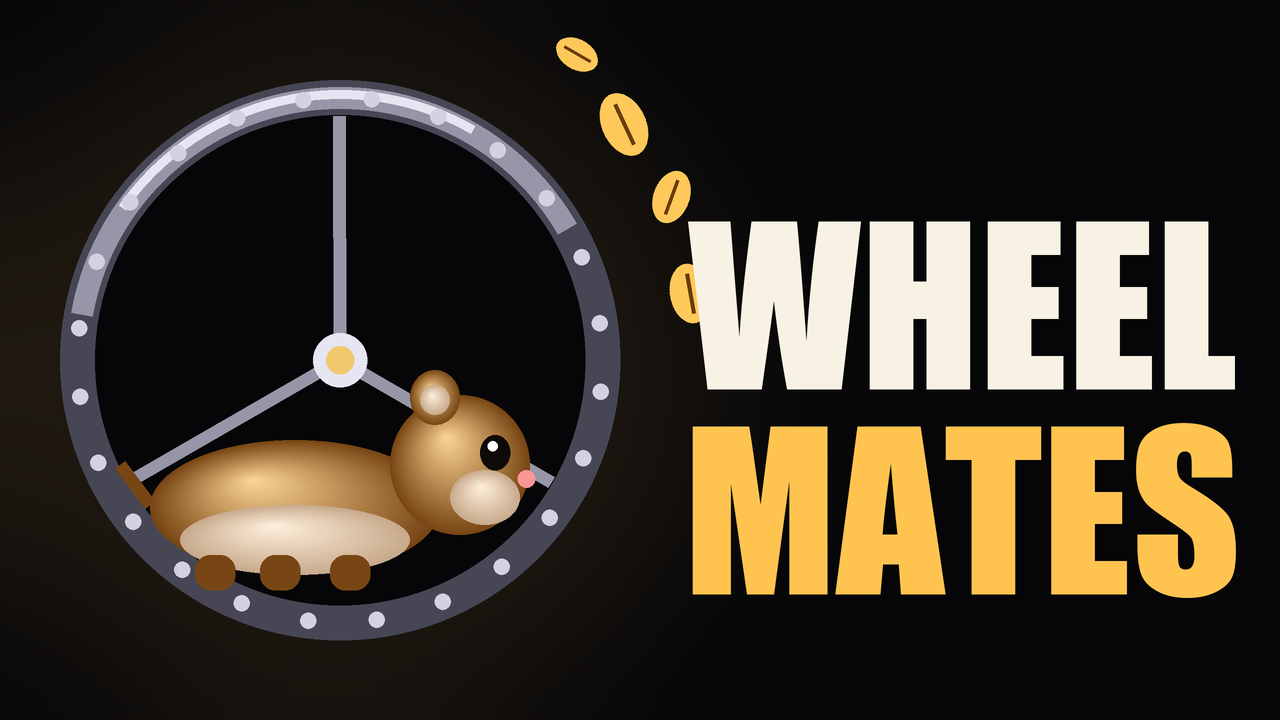
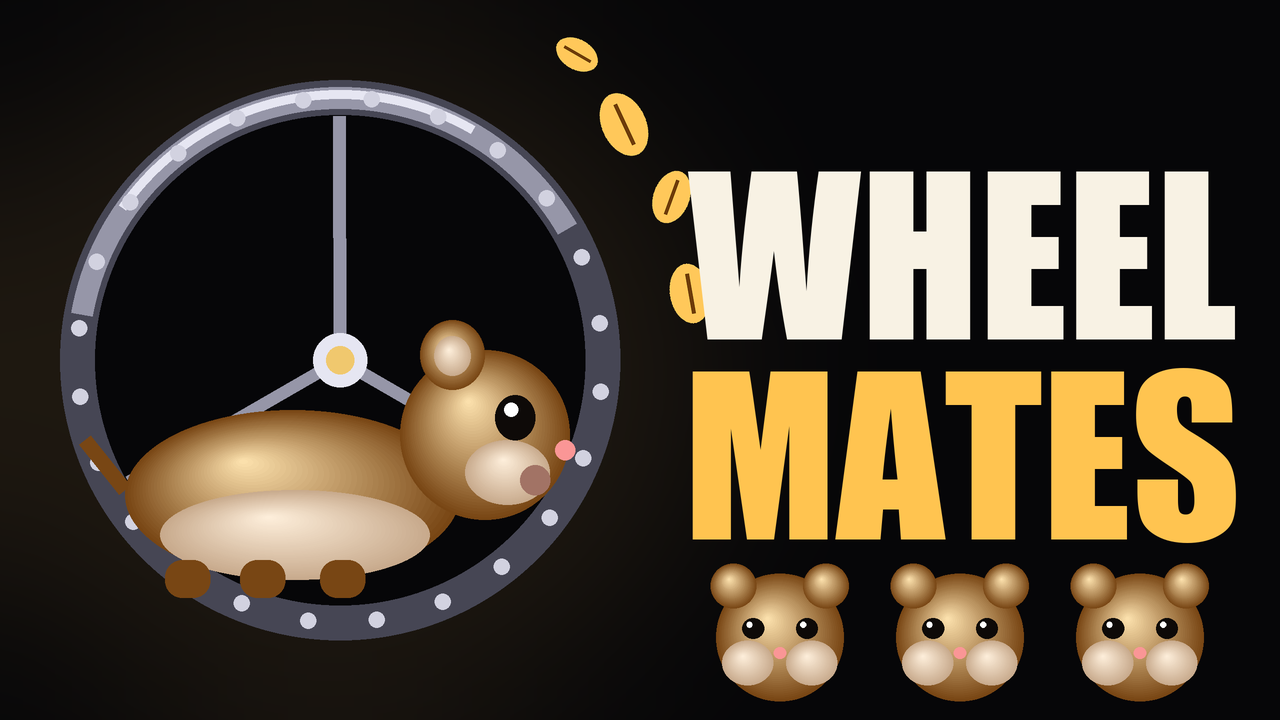
docs: headline image: a bigger runner in the drum and three mates under the wordmark

Changed region(s): [[0.5312, 0.2139, 0.9688, 0.9778], [0.0625, 0.4278, 0.4688, 0.8556]]

diff --git a/tools/card.py b/tools/card.py
@@ -63,19 +63,21 @@ for k in range(3):
 ld.ellipse([CX - 54, CY - 54, CX + 54, CY + 54], fill=RIM_LT)
 ld.ellipse([CX - 28, CY - 28, CX + 28, CY + 28], fill=HUB)
 
-# Squeektoshi running at the bottom of the drum, facing right: tail, body, belly, head, ear, eye, nose, legs
-ld.line([300, 1010, 240, 930], fill=FUR_DK, width=26)
-shaded((300, 880, 880, 1150), FUR_LT, FUR_DK, 0.35, 0.3)       # body
-shaded((360, 1010, 820, 1150), BELLY, BELLY_DK, 0.4, 0.3)      # belly
-shaded((780, 790, 1060, 1070), FUR_LT, FUR_DK, 0.4, 0.3)       # head
-shaded((820, 740, 920, 850), FUR_LT, FUR_DK)                   # ear
-shaded((840, 770, 900, 830), BELLY, BELLY_DK)                  # inner ear
-ld.ellipse([960, 870, 1020, 940], fill=INK)                    # eye
-ld.ellipse([975, 882, 995, 902], fill=WHITE)
-ld.ellipse([1035, 940, 1070, 975], fill=NOSE)                  # nose
-shaded((900, 940, 1040, 1050), BELLY, BELLY_DK, 0.45, 0.3)     # cheek
-for (x0, x1) in ((390, 470), (520, 600), (660, 740)):          # legs mid-stride
-    ld.rounded_rectangle([x0, 1110, x1, 1180], radius=30, fill=FUR_DK)
+# Squeektoshi running at the bottom of the drum, facing right, big enough to read on the board
+FUR_HI = (255, 228, 176)
+ld.line([250, 980, 170, 880], fill=FUR_DK, width=30)                 # tail
+shaded((250, 820, 920, 1160), FUR_HI, FUR_DK, 0.35, 0.3)            # body
+shaded((320, 980, 860, 1160), BELLY, BELLY_DK, 0.4, 0.3)            # belly
+shaded((800, 700, 1140, 1040), FUR_HI, FUR_DK, 0.4, 0.3)            # head
+shaded((840, 640, 970, 780), FUR_HI, FUR_DK)                        # ear
+shaded((868, 672, 942, 752), BELLY, BELLY_DK)                       # inner ear
+ld.ellipse([990, 790, 1070, 880], fill=INK)                         # eye
+ld.ellipse([1008, 805, 1036, 833], fill=WHITE)
+ld.ellipse([1110, 880, 1150, 920], fill=NOSE)                       # nose
+shaded((930, 880, 1100, 1010), BELLY, BELLY_DK, 0.45, 0.3)          # cheek
+ld.ellipse([1040, 930, 1100, 990], fill=(255, 180, 160, 150))       # blush
+for (x0, x1) in ((330, 420), (480, 570), (640, 730)):               # legs mid-stride
+    ld.rounded_rectangle([x0, 1120, x1, 1195], radius=34, fill=FUR_DK)
 im.paste(lay, (0, 0), lay)
 
 # seeds flying off the top of the wheel
@@ -96,8 +98,28 @@ f1, f2 = font(425), font(425)
 def fit(text, f, x0, x1):
     w = d.textlength(text, font=f)
     return x0 + (x1 - x0 - w) / 2
-d.text((fit("WHEEL", f1, 1320, 2530), 350), "WHEEL", font=f1, fill=CREAM)
-d.text((fit("MATES", f2, 1320, 2530), 760), "MATES", font=f2, fill=AMBER)
+d.text((fit("WHEEL", f1, 1320, 2530), 250), "WHEEL", font=f1, fill=CREAM)
+d.text((fit("MATES", f2, 1320, 2530), 650), "MATES", font=f2, fill=AMBER)
+
+# the mates: three small faces cheering under the wordmark
+mates = Image.new("RGBA", (W, H), (0, 0, 0, 0))
+md = ImageDraw.Draw(mates)
+def face(x, y, r, tone=(FUR_HI, FUR_DK)):
+    def sh(box, inner, outer, cx=0.4, cy=0.35):
+        x0, y0, x1, y1 = box
+        mates.alpha_composite(radial((x1 - x0, y1 - y0), inner, outer, cx, cy), (x0, y0))
+    sh((x - r, y - r, x + r, y + r), *tone)
+    for ex in (x - r * 0.72, x + r * 0.72):                           # ears
+        sh((int(ex - r * 0.36), int(y - r * 1.15), int(ex + r * 0.36), int(y - r * 0.45)), *tone)
+    for ex in (x - r * 0.42, x + r * 0.42):                           # eyes
+        md.ellipse([ex - r * 0.17, y - r * 0.3, ex + r * 0.17, y + 0.02 * r], fill=INK)
+        md.ellipse([ex - r * 0.1, y - r * 0.25, ex - r * 0.01, y - r * 0.15], fill=WHITE)
+    for ex in (x - r * 0.5, x + r * 0.5):                             # cheeks
+        sh((int(ex - r * 0.4), int(y + r * 0.05), int(ex + r * 0.4), int(y + r * 0.75)), BELLY, BELLY_DK)
+    md.ellipse([x - r * 0.1, y + r * 0.15, x + r * 0.1, y + r * 0.33], fill=NOSE)
+for (x, y) in ((1560, 1275), (1920, 1275), (2280, 1275)):
+    face(x, y, 128)
+im.paste(mates, (0, 0), mates)
 
 final = im.resize((1280, 720), Image.LANCZOS)
 final.save(out / "card-headline.png")
